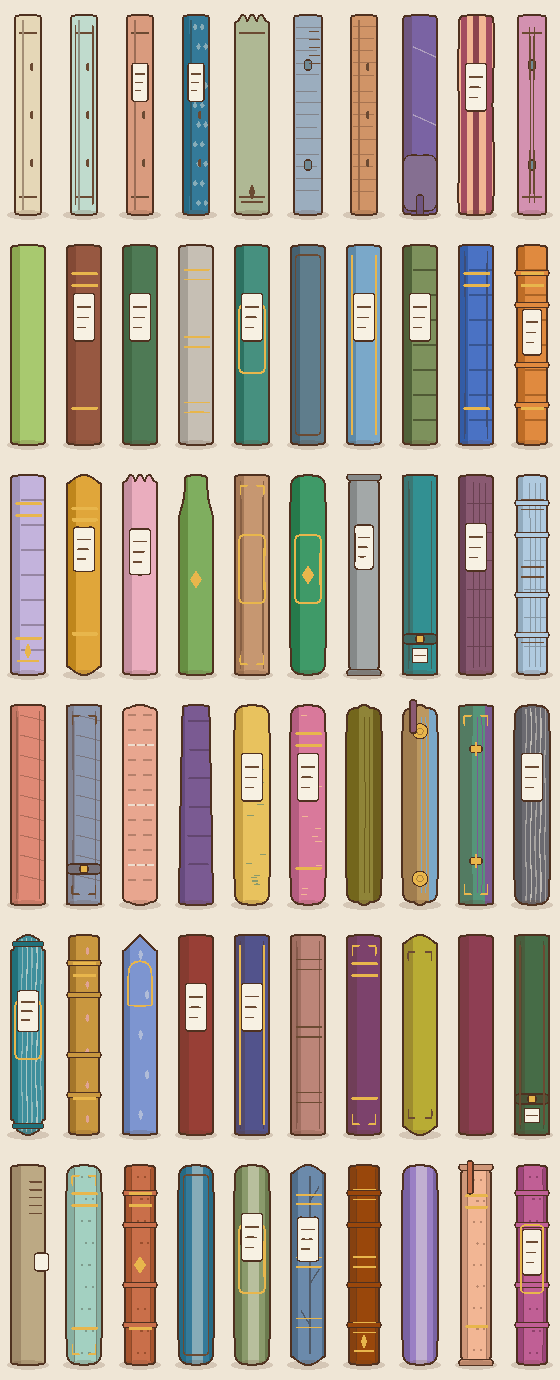
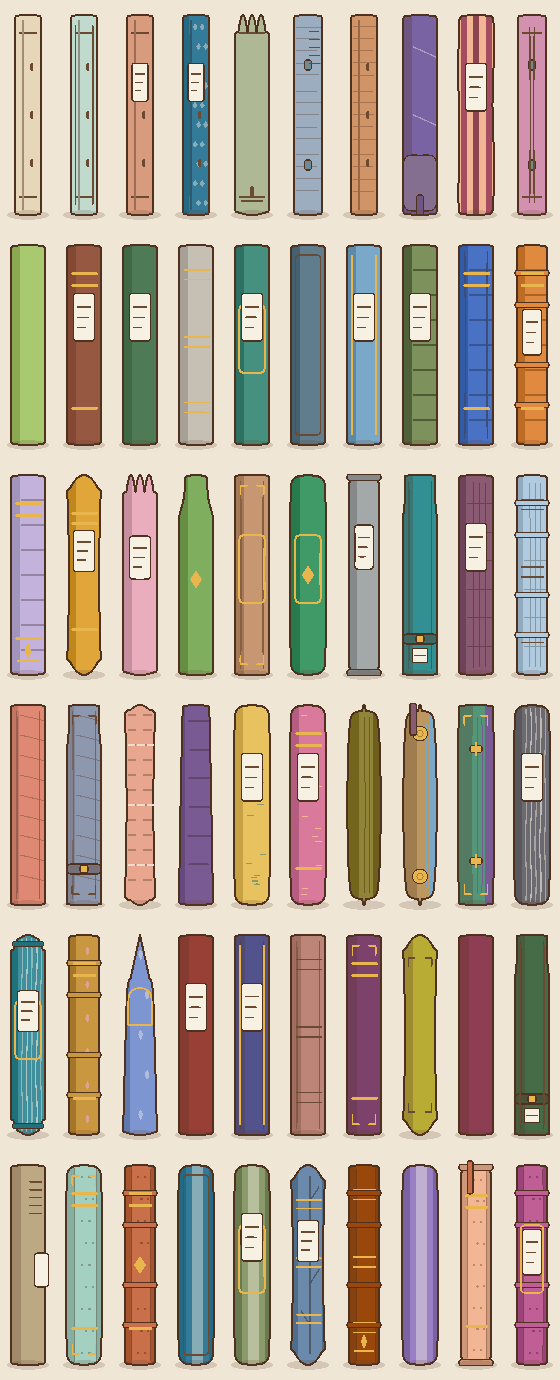
fix(art): fifty silhouettes a reader can tell apart, measured
The shapes were nameable and not distinguishable. Measured at the size a spine
is actually drawn — 34px wide — the closest pair differed by 218 pixels out of
about ten thousand, and `domed-head` alone sat within 360px of six other
shapes. Fifty entries in a table; roughly thirty choices on a shelf.

Two clusters, two causes.

The cut-head family (dome, gable, ogee, notch, step, crenel, wave, scallop,
bevel) differed ONLY in the top of the spine, and shipped with cuts 5 to 9px
deep on a 200px book. The cuts are roughly twice as deep now, and each shape
carries its own headWidth so the difference runs the full height instead of
living in the top twelfth — which is the only way a head profile can be read in
a row of spines.

The plain-rectangle group (square, clasped, chained, chamfered, ledger,
tab-index, long-stitch) had one identical body with small marks drawn on it.
Each now carries a proportion its own name already claimed: clasped bellies
because a book that needs clasps is springing open, chained leans because it
hung by the ring at its foot, ledger finally has the square shoulders its blurb
promised, long-stitch sags because a limp cover has no boards. `square` is
deliberately untouched — it is the baseline the others are read against.

Result: closest pair 218 → 328, median 1818 → 2000.

Gated so it cannot regress. The check is a FLOOR on the closest pair, not an
average — an average hides exactly the clusters it exists to catch. It compares
[…]

diff --git a/src/art/bookDesign.ts b/src/art/bookDesign.ts
@@ -653,24 +653,50 @@ export const SHAPES: Readonly<Record<SpineShape, ShapeSpec>> = {
   'double-hinge': shape('double-hinge', 'French Groove', 'Two grooves at each joint, so the covers open like doors.',
     ['formal', 'refined', 'luxe'], { corner: 0.06, endDepth: 0.022, marks: ['frenchGrooves'] }),
 
+  // The side is WAISTED because the blurb already said so — "the spine arcs
+  // away from the text block" — and it was drawn with straight sides, which
+  // left it 164px from `chamfered` across the whole spine.
   'hollow-back': shape('hollow-back', 'Hollow Back', 'The spine arcs away from the text block, so head and tail dome.',
-    ['antique', 'refined', 'airy'], { head: 'dome', tail: 'dome', corner: 0.1, endDepth: 0.04 }),
+    ['antique', 'refined', 'airy'],
+    { head: 'dome', tail: 'dome', side: 'waist', corner: 0.1, endDepth: 0.072 }),
 
   'spring-back': shape('spring-back', 'Spring Back', 'The stationer’s swell: a back that bulges out under its own sewing.',
     ['heavy', 'utilitarian', 'antique'],
     { side: 'bulge', head: 'cushion', tail: 'cushion', headWidth: 0.9, tailWidth: 0.9, corner: 0.3 }),
 
+  // A padded board swells at BOTH ends; a rounded back only bellies. With the
+  // same belly and near-identical corner the two were 190px apart and read as
+  // one shape, so this takes the swelling all the way.
   cushioned: shape('cushioned', 'Cushioned', 'Padded boards: every edge swollen, nothing sharp anywhere.',
-    ['cosy', 'luxe', 'devotional'], { head: 'cushion', tail: 'cushion', side: 'belly', corner: 0.44 }),
+    ['cosy', 'luxe', 'devotional'],
+    { head: 'cushion', tail: 'cushion', side: 'bulge', headWidth: 0.82, tailWidth: 0.82,
+      endDepth: 0.06, corner: 0.62 }),
 
   ledger: shape('ledger', 'Ledger', 'Square shoulders and a strap across the tail. Built to be written in.',
     ['utilitarian', 'heavy', 'sober'],
-    { corner: 0.04, endDepth: 0.022, marks: ['grooves', 'ledgerStrap'], claimBottom: 0.74 }),
+    // Its blurb said "square shoulders" and it had none — a plain rectangle
+    // 282px from `tight-back`, which also wears grooves. Now the shoulder is in
+    // the silhouette where the name always claimed it was.
+    { side: 'shoulder', headWidth: 0.88, shoulderAt: 0.17, corner: 0.04, endDepth: 0.022,
+      marks: ['grooves', 'ledgerStrap'], claimBottom: 0.74 }),
 
   /* -------------------------------- cut heads -------------------------------- */
 
+  /*
+   * The cut-head family — dome, gable, ogee, notch, step, crenel, wave,
+   * scallop, bevel — all differ ONLY in the top of the spine, and they shipped
+   * with cuts 5 to 9 px deep on a 200px book. Nine shapes that were nameable
+   * and not distinguishable: `domed-head` alone sat within 360px of six others.
+   *
+   * Two changes, both applied across the whole family. The cuts are twice as
+   * deep, so the profile is a shape rather than a nick. And each carries its
+   * own `headWidth`, so the difference runs the FULL height instead of living
+   * in the top twelfth — which is the only way a head profile can be told apart
+   * in a row of spines at 34px wide.
+   */
   'domed-head': shape('domed-head', 'Domed Head', 'One arc over the head, and a flat foot to stand on.',
-    ['refined', 'antique'], { head: 'dome', corner: 0.14, endDepth: 0.045, decorTop: 0.03 }),
+    ['refined', 'antique'],
+    { head: 'dome', headWidth: 0.9, corner: 0.14, endDepth: 0.075, decorTop: 0.08 }),
 
   'round-cap': shape('round-cap', 'Rolled Caps', 'Leather turned over a cord at head and tail, and rolled round.',
     ['luxe', 'antique', 'refined'],
@@ -678,28 +704,37 @@ export const SHAPES: Readonly<Record<SpineShape, ShapeSpec>> = {
       claimTop: 0.12, claimBottom: 0.88 }),
 
   gabled: shape('gabled', 'Gabled', 'A pitched roof over the head, as on a reliquary.',
-    ['ornate', 'devotional', 'antique'], { head: 'gable', endDepth: 0.035, corner: 0.07, decorTop: 0.04 }),
+    ['ornate', 'devotional', 'antique'],
+    { head: 'gable', headWidth: 0.66, endDepth: 0.1, corner: 0.07, decorTop: 0.1 }),
 
   'ogee-head': shape('ogee-head', 'Ogee Head', 'The S-curve of a chapel door, taken to a point.',
-    ['ornate', 'devotional', 'fancy'], { head: 'ogee', endDepth: 0.04, corner: 0.07, decorTop: 0.04 }),
+    ['ornate', 'devotional', 'fancy'],
+    { head: 'ogee', headWidth: 0.78, endDepth: 0.095, corner: 0.07, decorTop: 0.1 }),
 
   'notched-head': shape('notched-head', 'Notched Head', 'A thumb notch cut into the head, for pulling it off the shelf.',
-    ['utilitarian', 'modern', 'plain'], { head: 'notch', endDepth: 0.035, corner: 0.1, decorTop: 0.04 }),
+    ['utilitarian', 'modern', 'plain'],
+    { head: 'notch', side: 'shoulder', headWidth: 0.93, shoulderAt: 0.14,
+      endDepth: 0.085, corner: 0.1, decorTop: 0.09 }),
 
   'stepped-head': shape('stepped-head', 'Stepped Head', 'A two-tier ziggurat, cut square with a saw.',
-    ['modern', 'goofy', 'formal'], { head: 'step', endDepth: 0.025, corner: 0.04, decorTop: 0.04 }),
+    ['modern', 'goofy', 'formal'],
+    { head: 'step', headWidth: 0.84, endDepth: 0.075, corner: 0.04, decorTop: 0.08 }),
 
   crenellated: shape('crenellated', 'Crenellated', 'Battlements: two teeth and the merlons between them.',
-    ['goofy', 'ornate', 'whimsical'], { head: 'crenel', endDepth: 0.03, corner: 0.04, decorTop: 0.04 }),
+    ['goofy', 'ornate', 'whimsical'],
+    { head: 'crenel', headWidth: 1, endDepth: 0.07, corner: 0.04, decorTop: 0.08 }),
 
   'wave-head': shape('wave-head', 'Wave Head', 'One S across the head, as though the cover had curled.',
-    ['whimsical', 'handmade', 'battered'], { head: 'wave', endDepth: 0.035, corner: 0.1, decorTop: 0.04 }),
+    ['whimsical', 'handmade', 'battered'],
+    { head: 'wave', side: 'ripple', headWidth: 0.96, endDepth: 0.08, corner: 0.1, decorTop: 0.085 }),
 
   'scalloped-head': shape('scalloped-head', 'Scalloped Head', 'The head cut into three lobes, as on a child’s primer.',
-    ['whimsical', 'goofy', 'cosy'], { head: 'scallop3', endDepth: 0.032, corner: 0.14, decorTop: 0.04 }),
+    ['whimsical', 'goofy', 'cosy'],
+    { head: 'scallop3', headWidth: 1, endDepth: 0.085, corner: 0.14, decorTop: 0.09 }),
 
   'scalloped-tail': shape('scalloped-tail', 'Scalloped Tail', 'Three lobes at the foot, so it stands like a valance.',
-    ['whimsical', 'fancy', 'cosy'], { tail: 'scallop3', endDepth: 0.032, corner: 0.14, decorBottom: 0.04 }),
+    ['whimsical', 'fancy', 'cosy'],
+    { tail: 'scallop3', tailWidth: 0.97, endDepth: 0.085, corner: 0.14, decorBottom: 0.09 }),
 
   /* ---------------------------- changing widths ----------------------------- */
 
@@ -725,10 +760,13 @@ export const SHAPES: Readonly<Record<SpineShape, ShapeSpec>> = {
     ['battered', 'handmade', 'cosy'], { side: 'waist', corner: 0.2, decorInset: 0.05 }),
 
   chamfered: shape('chamfered', 'Bevelled Boards', 'All four corners cut off at a slant, never rounded.',
-    ['formal', 'severe', 'luxe'], { corner: 0.34, bevelCorner: true, endDepth: 0.025 }),
+    // At 0.34 of the width the bevel read as a slightly soft corner rather than
+    // a cut one. Half the width is what a bevelled board actually looks like.
+    ['formal', 'severe', 'luxe'], { corner: 0.52, bevelCorner: true, endDepth: 0.03 }),
 
   'bevel-head': shape('bevel-head', 'Bevelled Head', 'One long slant across the head — a book cut on the skew.',
-    ['modern', 'goofy', 'whimsical'], { head: 'bevel', endDepth: 0.035, corner: 0.08, decorTop: 0.05 }),
+    ['modern', 'goofy', 'whimsical'],
+    { head: 'bevel', headWidth: 0.86, endDepth: 0.09, corner: 0.08, decorTop: 0.095 }),
 
   /* ------------------------------ soft and limp ----------------------------- */
 
@@ -741,7 +779,7 @@ export const SHAPES: Readonly<Record<SpineShape, ShapeSpec>> = {
 
   'two-lobe': shape('two-lobe', 'Twin Lobes', 'Two humps at each end: a fat pill of a book.',
     ['goofy', 'whimsical', 'cosy'],
-    { head: 'scallop2', tail: 'scallop2', endDepth: 0.035, corner: 0.2 }),
+    { head: 'scallop2', tail: 'scallop2', endDepth: 0.08, corner: 0.2 }),
 
   rolled: shape('rolled', 'Scroll', 'Barely a book: a roll with a turned knob at each end.',
     ['antique', 'whimsical', 'handmade'],
@@ -766,7 +804,13 @@ export const SHAPES: Readonly<Record<SpineShape, ShapeSpec>> = {
 
   'long-stitch': shape('long-stitch', 'Long Stitch', 'Three runs of stitching straight through a limp cover.',
     ['handmade', 'rustic', 'natural'],
-    { head: 'cushion', tail: 'cushion', corner: 0.24, marks: ['longStitch'] }),
+    // A LIMP cover, sewn through: it has no boards to hold it straight, so it
+    // sags in the middle and the sewing pulls the ends in. Drawn upright with
+    // faint stitch marks it was 270px from a plain square — the closest pair
+    // left — and "limp" was a word in the blurb rather than a thing you could
+    // see.
+    { head: 'cushion', tail: 'cushion', side: 'waist', headWidth: 0.9, tailWidth: 0.9,
+      endDepth: 0.05, corner: 0.24, marks: ['longStitch'] }),
 
   'sewn-sections': shape('sewn-sections', 'Unbound Sections', 'No cover: five folded gatherings and their sewing.',
     ['handmade', 'plain', 'natural'], { inset: 0.08, corner: 0.06, marks: ['sections'] }),
@@ -818,13 +862,27 @@ export const SHAPES: Readonly<Record<SpineShape, ShapeSpec>> = {
     ['devotional', 'cosy', 'antique'],
     { inset: 0.07, dropTop: 0.015, dropBottom: 0.015, corner: 0.22, marks: ['yappLips'] }),
 
+  /*
+   * The plain-rectangle group — square, clasped, chained, chamfered, ledger,
+   * tab-index — all had the identical body and differed only by small marks
+   * drawn on it. `clasped` sat 218px from `square` across the whole spine, the
+   * closest pair in the table.
+   *
+   * Each now carries a proportion its own name already claimed. `square` is
+   * left alone deliberately: it is the plain case binding, and the baseline the
+   * others are read against.
+   */
   clasped: shape('clasped', 'Clasped', 'Two metal clasps hold it shut, and mean it.',
     ['antique', 'devotional', 'heavy'],
-    { corner: 0.08, marks: ['clasps'], claimTop: 0.34, claimBottom: 0.66 }),
+    // A book that needs clasps is one whose text block is trying to spring
+    // open, and the swell between them is the reason they are there.
+    { side: 'belly', corner: 0.08, marks: ['clasps'], claimTop: 0.34, claimBottom: 0.66 }),
 
   chained: shape('chained', 'Chained', 'A ring and a link at the foot: this one does not leave the room.',
     ['antique', 'severe', 'scholarly'],
-    { corner: 0.06, marks: ['chainLink'], claimBottom: 0.78 }),
+    // It hangs. A chained book took its weight on the ring at its foot, and the
+    // lean says so at a size where the chain link itself is four pixels.
+    { side: 'sway', corner: 0.06, marks: ['chainLink'], claimBottom: 0.78 }),
 
   'tab-index': shape('tab-index', 'Thumb Index', 'A cut card tab standing at the fore edge, halfway down.',
     ['utilitarian', 'scholarly', 'modern'],
@@ -2875,8 +2933,10 @@ function drawShapeMarks(
         // next to it. Cap the overhang instead of the position, so it holds at
         // both ends of the 8-58px thickness range rather than only at the
         // width it happened to be drawn at.
+        // A real thumb index is a card you can get a thumb onto. At 9% of the
+        // height it was a chip, and the shape sat 284px from a plain square.
         const tw = Math.max(3, w * 0.42);
-        const th = Math.max(4, h * 0.09);
+        const th = Math.max(6, h * 0.17);
         const proud = Math.min(tw * 0.7, w * 0.08 + 1);
         panel(ctx, x + w + proud - tw, y + h * 0.44, tw, th, FLAT.cream, {
           radius: tw * 0.3,

diff --git a/tests/book-bindings.test.ts b/tests/book-bindings.test.ts
@@ -124,6 +124,25 @@ function designOf(over: Partial<BookDesign> = {}): BookDesign {
   return { ...resolveBookDesign({ seed: 0x51e5, cloth: 3, accent: 11 }), ...over };
 }
 
+/**
+ * How many pixels two shots disagree on, ignoring rounding on an edge.
+ *
+ * Counts PIXELS, not channels, and needs a real step — one value of difference
+ * on an antialiased edge is not something a reader can see, and counting it
+ * would let two identical shapes pass by being noisy.
+ */
+function pixelsDiffering(a: Raster, b: Raster): number {
+  let n = 0;
+  for (let i = 0; i < a.data.length; i += 4) {
+    const d =
+      Math.abs((a.data[i] as number) - (b.data[i] as number)) +
+      Math.abs((a.data[i + 1] as number) - (b.data[i + 1] as number)) +
+      Math.abs((a.data[i + 2] as number) - (b.data[i + 2] as number));
+    if (d > 24) n++;
+  }
+  return n;
+}
+
 /* -------------------------------------------------------------------------- *
  *                             the three gates                                 *
  * -------------------------------------------------------------------------- */
@@ -543,6 +562,48 @@ describe('every combination survives being drawn', () => {
       const design = designOf({ shape: c.shape, material: c.material, decorations: [c.mark] });
       expect(hashPixels(paint(design).raster)).toBe(hashPixels(paint(design).raster));
     }
+  }, DRAW_TIMEOUT);
+
+  /**
+   * Fifty shapes a reader can tell apart, not fifty entries in a table.
+   *
+   * A silhouette earns its place by being recognisable IN A ROW OF OTHERS at
+   * the size a spine is really drawn — 20 to 45 world px wide. Nameable is not
+   * the test; every one of these was nameable when the closest pair differed by
+   * 218 pixels out of ten thousand, which on a head profile meant a cut five
+   * pixels deep that nobody would ever notice.
+   *
+   * The threshold is deliberately a floor on the CLOSEST pair rather than an
+   * average: an average hides exactly the clusters this is here to catch. Two
+   * families were doing that — the cut heads (notch, step, crenel, wave,
+   * scallop, bevel, dome), whose cuts were too shallow to read, and a
+   * plain-rectangle group (square, clasped, chained, chamfered, ledger,
+   * tab-index) that differed only by small marks on an identical body.
+   */
+  it('gives every shape a silhouette a reader can pick out', () => {
+    const shots = SPINE_SHAPES.map((shape) =>
+      paint(
+        designOf({ shape, material: 'smooth-cloth' as MaterialLook, decorations: ['plain'] as Decoration[] }),
+      ).raster,
+    );
+
+    let worst = Number.POSITIVE_INFINITY;
+    let worstPair = '';
+    for (let i = 0; i < shots.length; i++) {
+      for (let j = i + 1; j < shots.length; j++) {
+        const d = pixelsDiffering(shots[i]!, shots[j]!);
+        if (d < worst) {
+          worst = d;
+          worstPair = `${SPINE_SHAPES[i]} / ${SPINE_SHAPES[j]}`;
+        }
+      }
+    }
+    // 300 is a floor under a measured 328, not a target. When this gate was
+    // written the closest pair was 218px and the median 1818; deepening the
+    // head and tail cuts and giving each shape a proportion of its own moved
+    // those to 328 and 2000. Raise the floor if the family is worked on again;
+    // do not lower it to make a new shape fit.
+    expect(worst, `closest pair is ${worstPair} at ${worst}px`).toBeGreaterThanOrEqual(300);
   }, DRAW_TIMEOUT);
 });
 
